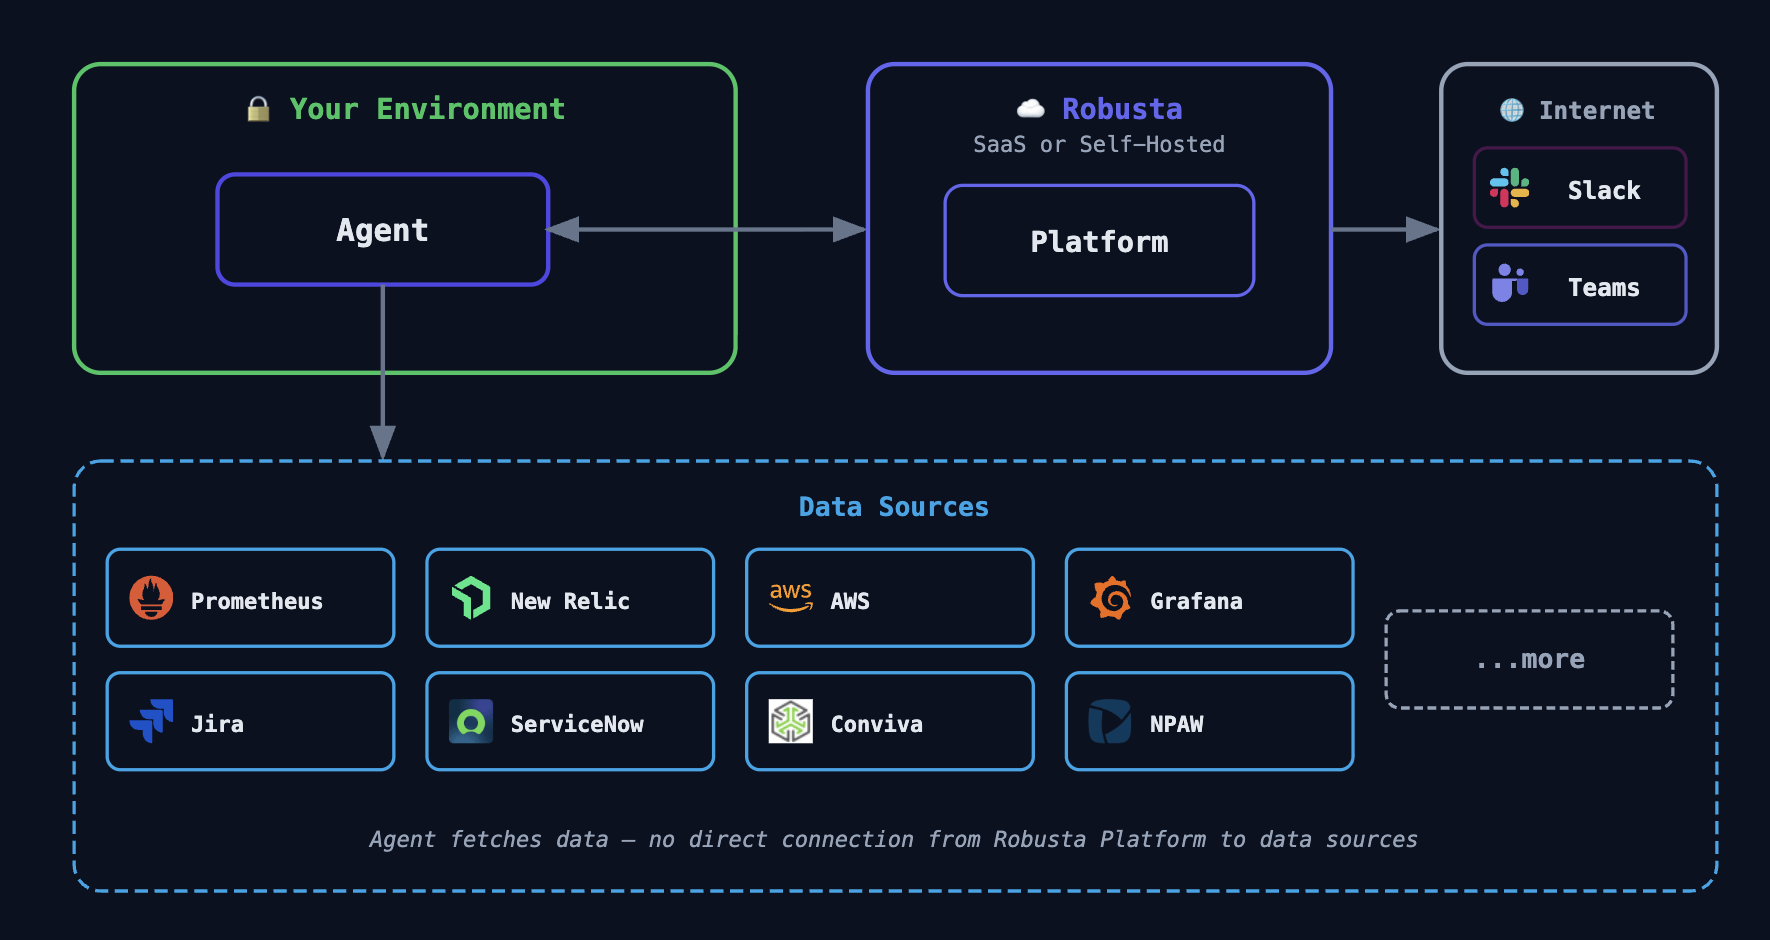
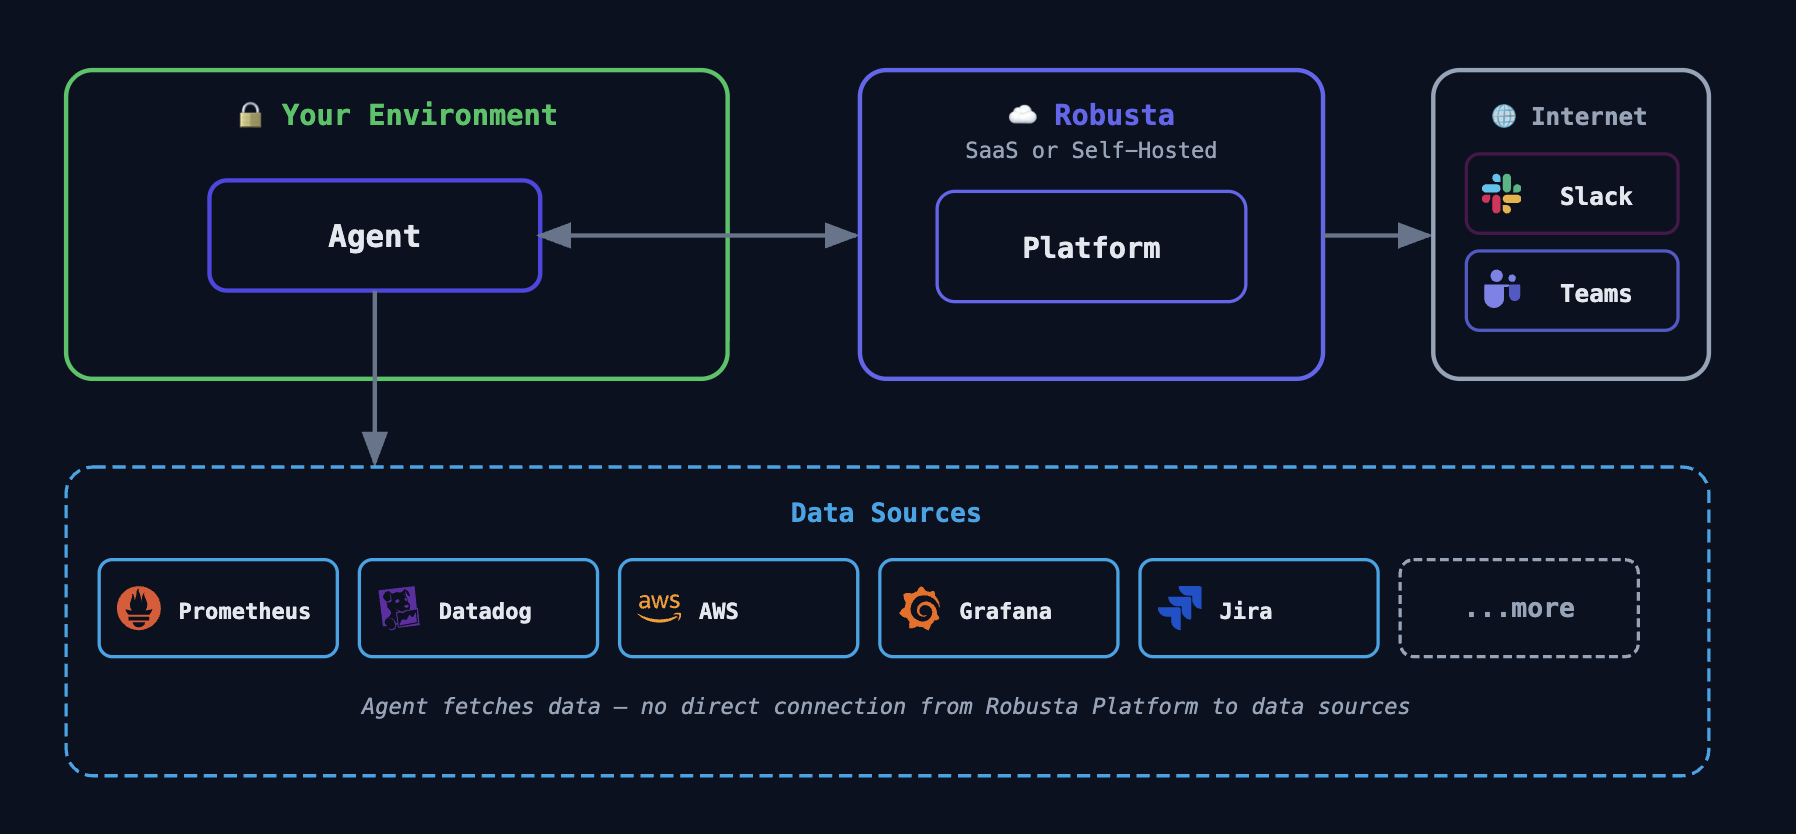
Update architecture diagram and align docs with new diagram
- Replace architecture-overview.png with new diagram
- Update data sources to match diagram: Prometheus, Datadog, AWS,
  Grafana, Jira (remove New Relic, CloudWatch, NPAW, Conviva, ServiceNow)
- Rewrite Kubernetes bullet as optional for K8s-specific use cases
- Simplify Data Sources section to a single list

https://claude.ai/code/session_0184fwhrjC4ELrYQBMCbyhfS

Changed region(s): [[0.0311, 0.0624, 0.9633, 0.9664], [0.9322, 0.6547, 0.9633, 0.7482]]

diff --git a/docs/how-it-works/architecture.rst b/docs/how-it-works/architecture.rst
@@ -14,8 +14,8 @@ Agent (In-Cluster)
 
 The Robusta Agent runs inside your Kubernetes cluster. It includes HolmesGPT and is responsible for:
 
-- Fetching data from external data sources (Prometheus, Grafana, New Relic, AWS, Jira, ServiceNow, and more)
-- Monitoring Kubernetes resource changes and gathering logs and events
+- Fetching data from external data sources (Prometheus, Datadog, AWS, Grafana, Jira, and more)
+- Optional: for customers troubleshooting issues on Kubernetes itself, track new deploys and changes to Kubernetes and query Kubernetes events
 
 The Agent keeps your data secure — it fetches data from your data sources directly, so there is no direct connection from the Robusta Platform to your data sources.
 
@@ -37,9 +37,7 @@ Data Sources
 
 HolmesGPT integrates with a wide range of data sources in your environment to gather evidence during investigations:
 
-- **Monitoring**: Prometheus, Grafana, New Relic, AWS CloudWatch, NPAW, Conviva
-- **ITSM & Ticketing**: Jira, ServiceNow
-- **And more**: Data source integrations are extensible
+- Prometheus, Datadog, AWS, Grafana, Jira, and more
 
 All data source connections are made by the Agent within your environment. The Robusta Platform never connects to your data sources directly.
 
